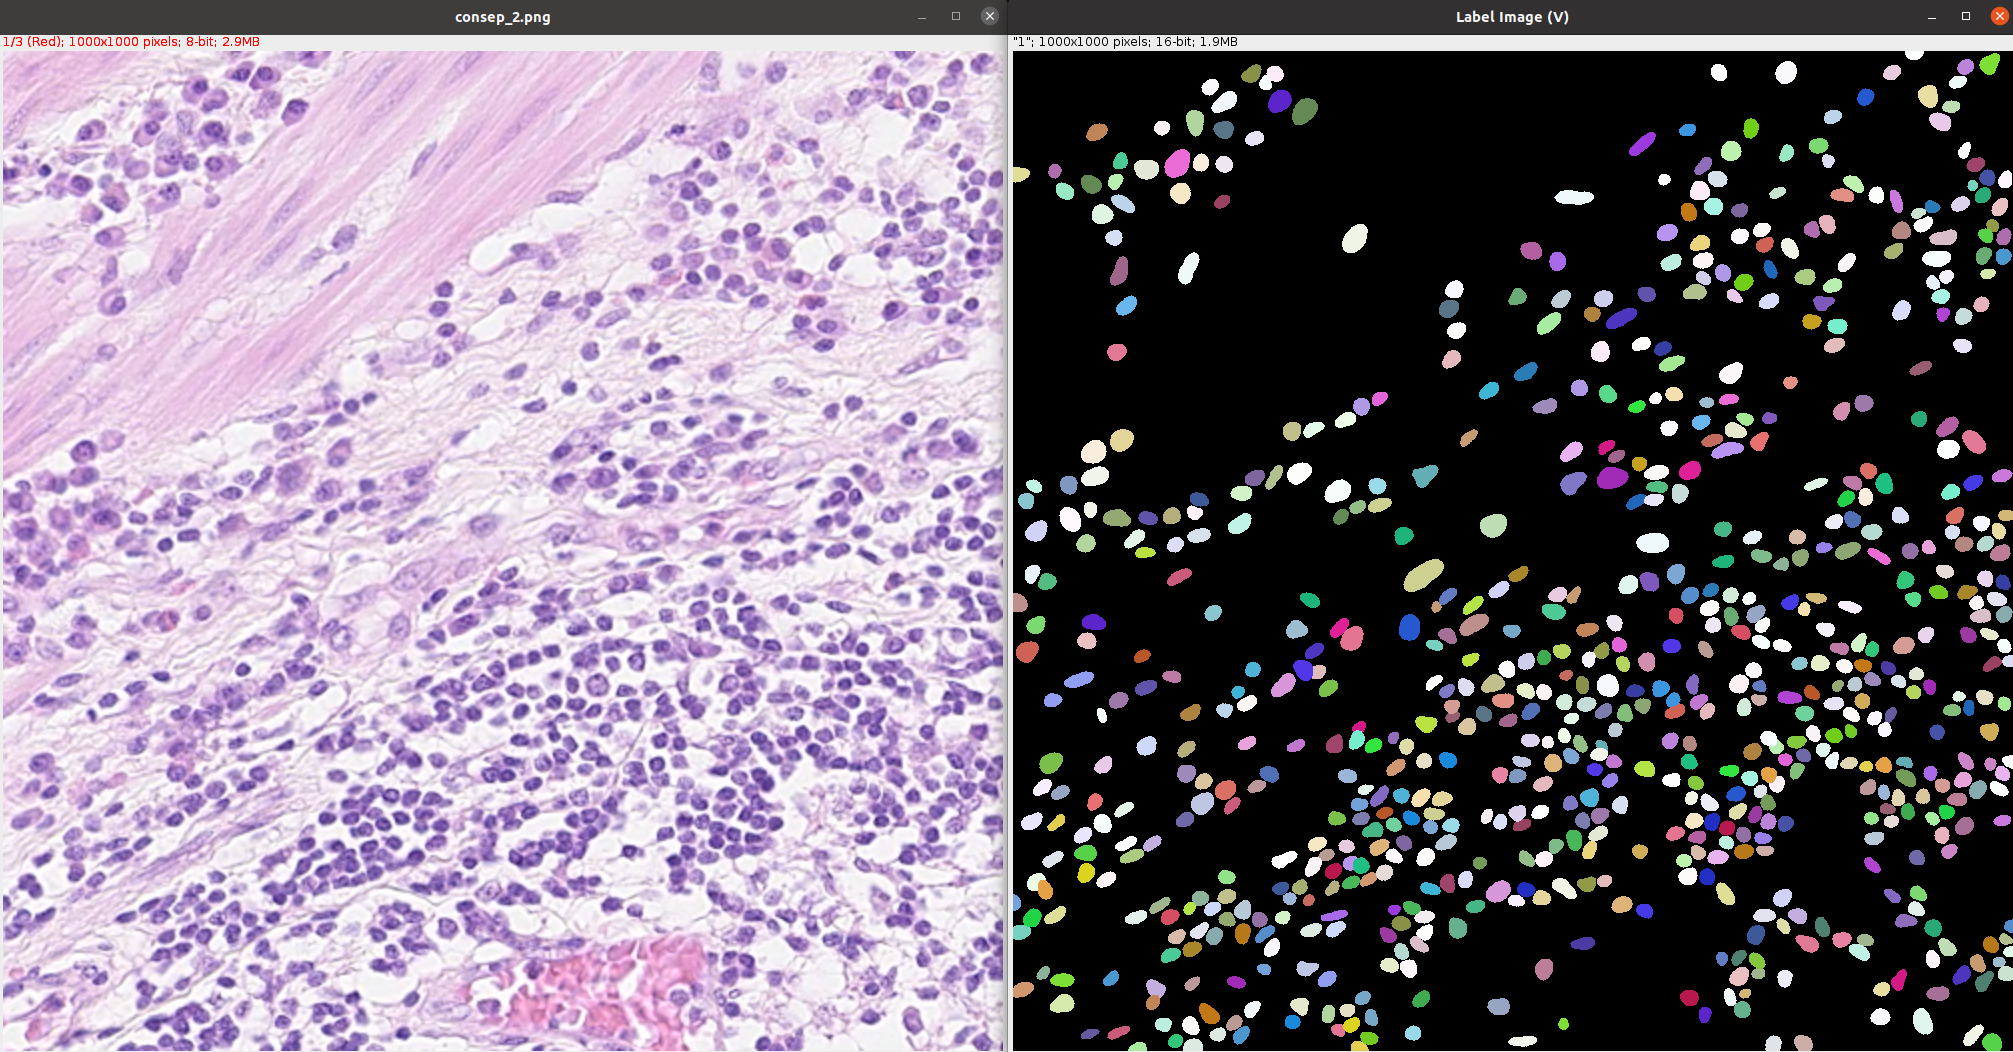
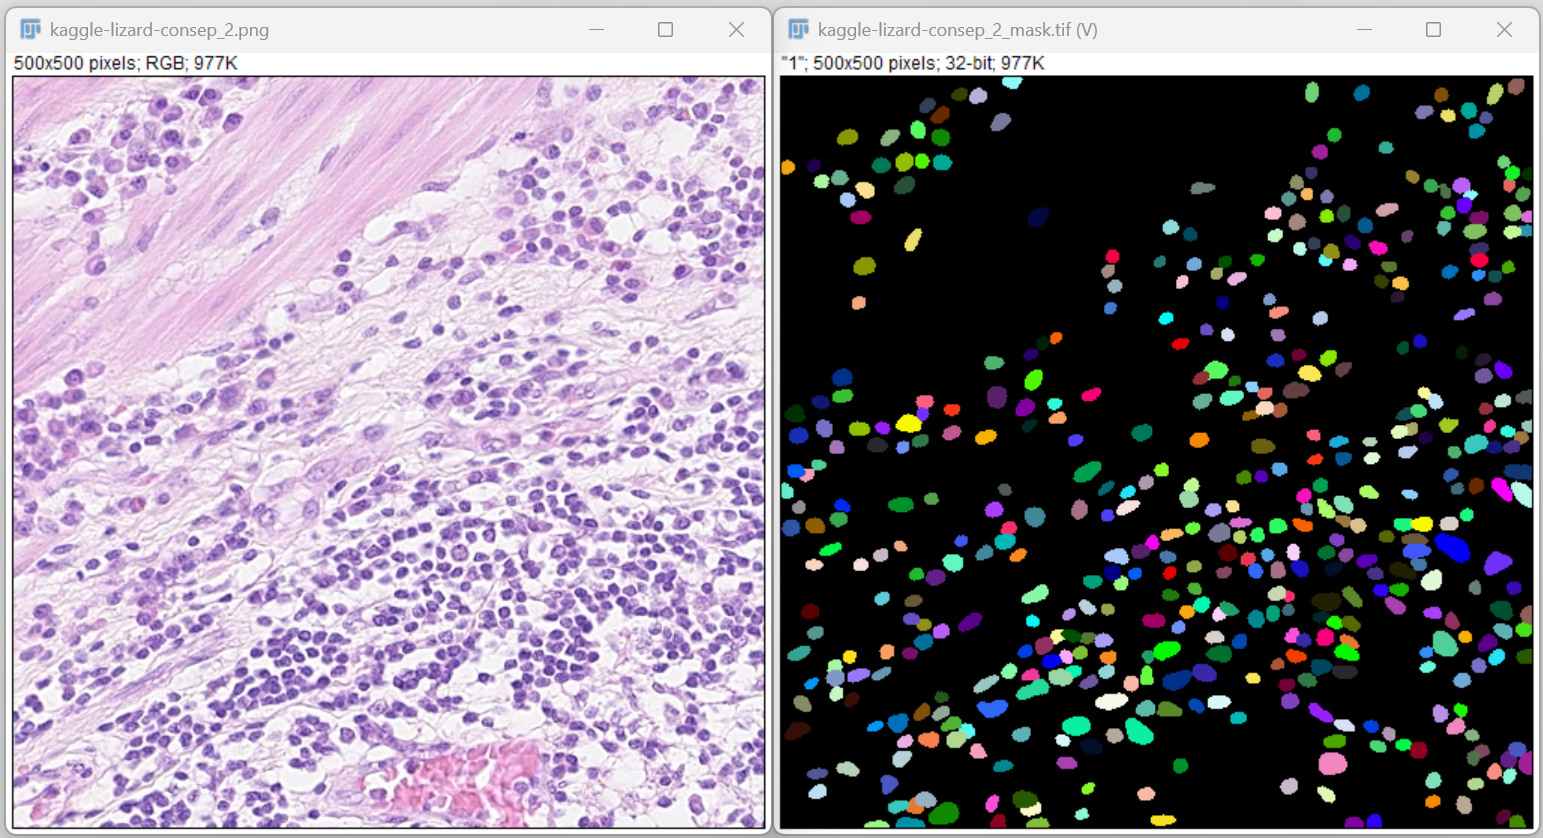
StarDist use case updated for deepImageJ

diff --git a/case1-stardist/README.md b/case1-stardist/README.md
@@ -34,25 +34,24 @@ And images of application in QuPath:
 
 ## Apply the model in deepImageJ
 
-- Open a lizard image in Fiji
-- Resize it to twice the size to match the resolution of the pre-trained model (`Image->Adjust->Size...`)
-- Run the model in DeepImageJ
-    - Install the model via `DeepImageJ Install Model`
-    - Apply the model via `DeepImageJ Run`
-    - This will result in the intermediate stardist predictions, we still need to apply stardist postprocessing to get the segmentation
-- Apply stardist post-processing
-    - Make sure the stardist plugin is installed (`Help->Update->Manage Update Sites->StarDist`)
-    - Apply the postprocessing macro: `Plugns->Macros->Run` then select `stardist_postprocessing.ijm` from `he-model-pretrained/bioimageio`
+- Download the image from Kaggle from the Lizard Dataset. This use case in deepImageJ has been done using `Lizard_Images1 > consep_2.png`.
+- Run the model with DeepImageJ
+    - Go to `Plugins > deepImageJ > StarDist`.
+    - Select the model "StarDist H&E Nuclei Segmentation" from the drop down menu and click on Install. 
+    - Adjust the Probability Threshold to a 0,40. You can try different thresholds depending on the number of objects that you want to detect.  
+    - Apply the model by clicking `Run`.
+    - This will result in the stardist predictions. You can change the lookup table for a better visualization of the segmented nuclei.
+
+See a screenshot of the deepImageJ StarDist interface:
+<img src="https://github.com/bioimage-io/use-cases/blob/main/case1-stardist/images/deepimagej_stardist-interface.png" alt="drawing" width="1200"/>
 
 See the result of stardist applied in deepImageJ
 <img src="https://github.com/bioimage-io/use-cases/blob/main/case1-stardist/images/deepimagej_stardist.png" alt="drawing" width="1200"/>
 
 ### Dependencies
-
 The example was run using:
-- Fiji 2.3.0
-- DeepImageJ 2.1.15
-- StarDist Fiji 0.8.1 (required for the stardist post-processing)
+- Fiji 2.16.0
+- DeepImageJ 3.1.0
 
 
 ## Apply the model in stardist python
